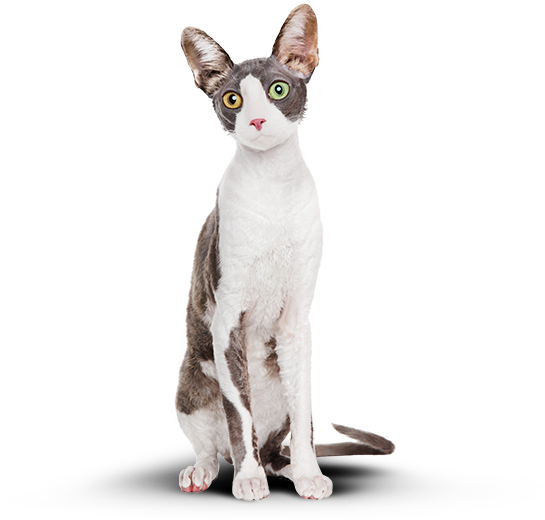
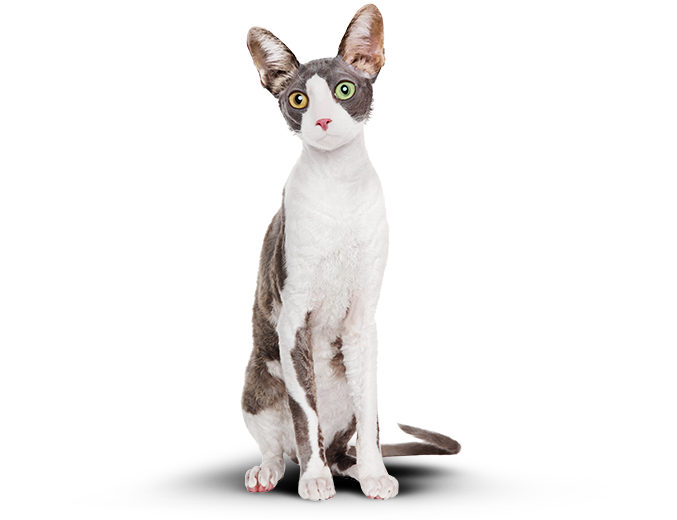
Добавь базовую реализацию слайдера

Changed region(s): [[0.1872, 0.0, 0.7486, 0.9846], [0.5615, 0.4615, 0.5927, 0.5846], [0.4991, 0.5846, 0.5303, 0.6154]]

diff --git a/source/index.html b/source/index.html
@@ -12,7 +12,7 @@
   <title>HTML Academy: Кэт энерджи</title>
 </head>
 
-<body class="page__body page__index js-enabled">
+<body class="page__body page__index">
   <header class="page-header page__container">
     <div class="page-header__wrapper">
       <a class="link page-header__logo-image">
@@ -202,13 +202,13 @@
                 <picture>
                   <source media="(min-width: 768px)" srcset="img/slider/after@1x.png, img/slider/after@2x.png 2x">
                   <img class="slider__image" src="img/slider/after-mobile@1x.png"
-                    srcset="img/slider/after-mobile@2x.png 2x" alt="Поджарый кот" width="251" height="240">
+                    srcset="img/slider/after-mobile@2x.png 2x" alt="Поджарый кот" width="251" height="232">
                 </picture>
               </figure>
             </li>
           </ul>
           <div class="example__control slider__control slider__control--hide" hidden>
-            <button class="slider__button" type="button">
+            <button class="slider__button" id="before-button" type="button">
               Было
             </button>
             <div class="slider__bar">
@@ -218,7 +218,7 @@
                 </span>
               </div>
             </div>
-            <button class="slider__button" type="button">
+            <button class="slider__button" id="after-button" type="button">
               Стало
             </button>
           </div>
@@ -251,7 +251,7 @@
       <iframe aria-labelledby="address"
         src="https://www.google.com/maps/embed?pb=!1m18!1m12!1m3!1d7994.770648107317!2d30.313133954838005!3d59.937241831231795!2m3!1f0!2f0!3f0!3m2!1i1024!2i768!4f13.1!3m3!1m2!1s0x4696310fca145cc1%3A0x42b32648d8238007!2z0JHQvtC70YzRiNCw0Y8g0JrQvtC90Y7RiNC10L3QvdCw0Y8g0YPQuy4sIDE5LzgsINCh0LDQvdC60YIt0J_QtdGC0LXRgNCx0YPRgNCzLCAxOTExODY!5e0!3m2!1sru!2sru!4v1616848881644!5m2!1sru!2sru"
         style="border: 0;
-  width: 100%;" height="362" allowfullscreen="" loading="lazy"></iframe>
+  width: 100%;" height="362" allowfullscreen="" loading="lazy" hidden></iframe>
     </div>
   </aside>
   <footer class="main-footer">
@@ -295,6 +295,7 @@
     </div>
   </footer>
   <script src="js/app.js"></script>
+  <script src="js/slider.js"></script>
 </body>
 
 </html>

diff --git a/source/js/slider.js b/source/js/slider.js
@@ -1,0 +1,51 @@
+document.querySelector('.slider__control').classList.remove('slider__control--hide');
+
+const beforeBtn = document.getElementById('before-button');
+const afterBtn = document.getElementById('after-button');
+const beforeSlide = document.querySelector('.slider__item--before');
+const afterSlide = document.querySelector('.slider__item--after');
+const sliderControl = document.querySelector('.slider__control');
+const sliderBar = document.querySelector('.slider__bar');
+const sliderThumb = document.querySelector('.slider__thumb');
+beforeBtn.addEventListener('click', function () {
+  if (window.innerWidth < 768) {
+    afterSlide.classList.remove('slider__item--current');
+    beforeSlide.classList.add('slider__item--current');
+    sliderThumb.style.marginLeft = '0';
+  }
+  else {
+    sliderThumb.style.left = 0;
+    changeSlide(0);
+  }
+});
+afterBtn.addEventListener('click', function () {
+  if (window.innerWidth < 768) {
+    beforeSlide.classList.remove('slider__item--current');
+    afterSlide.classList.add('slider__item--current');
+    sliderThumb.style.marginLeft = 'auto';
+  } else {
+    sliderThumb.style.left = '100%';
+    changeSlide(100);
+  }
+});
+
+sliderControl.addEventListener('mousedown', getCoords);
+
+function getCoords(e) {
+  let coords;
+  let sliderBarStart = sliderBar.offsetLeft;
+  sliderBarWidth = sliderBar.offsetWidth;
+  let sliderBarEnd = sliderBarWidth + sliderBarStart;
+  if (e.pageX >= sliderBarStart && e.pageX <= sliderBarEnd) {
+    coords = Math.round((e.pageX - sliderBarStart) * 100 / sliderBarWidth);
+    moveThumb(coords);
+  }
+}
+function moveThumb(percent){
+  sliderThumb.style.left = percent + '%';
+  changeSlide(percent);
+}
+function changeSlide(percent) {
+  beforeSlide.style.width = 100 - percent + "%"
+  afterSlide.style.width = percent + "%"
+}

diff --git a/source/sass/blocks/slider.scss b/source/sass/blocks/slider.scss
@@ -43,7 +43,8 @@
   }
 
   &--before {
-    width: 338px;
+    width: 50%;
+    // width: 338px;
     z-index: 1;
 
     img {
@@ -51,25 +52,35 @@
     }
 
     @media (min-width: 1280px) {
-      width: 365px;
+      // width: 365px;
     }
   }
 
   &--after {
-    width: 354px;
+    width: 50%;
+    // width: 339px;
     right: 0;
 
     @media (min-width: 1280px) {
-      width: 312px;
+      // width: 312px;
     }
 
     img {
-      object-fit: cover;
-      width: 325px;
-      height: 100%;
-      position: absolute;
-      top: 0;
-      right: 150px;
+      max-width: none;
+      // width: 100%;
+      // object-fit: cover;
+
+      @media (min-width: 768px) {
+        // object-fit: cover;
+        // width: 325px;
+        height: 100%;
+        position: absolute;
+        top: 0;
+        right: -25px;
+        // right: 150px;
+        // right: 50%;
+      }
+
 
       @media (min-width: 1280px) {
         right: 159px;
@@ -108,14 +119,13 @@
 .slider__control {
   width: 196px;
   margin: 0 auto;
-  // padding: 0 13px;
   box-sizing: border-box;
   display: flex;
   align-items: center;
   justify-content: space-between;
 
   &--hide {
-    // display: none;
+    display: none;
   }
 
   @media (min-width: 768px) {

diff --git a/source/js/app.js b/source/js/app.js
@@ -1,10 +1,13 @@
-let menuToggler = document.querySelector('.main-nav__toggle');
-let mainMenu = document.querySelector('.main-nav__list');
+document.body.classList.add('js-enabled');
+document.querySelector('.contacts__map iframe').removeAttribute('hidden');
+const menuToggler = document.querySelector('.main-nav__toggle');
+const mainMenu = document.querySelector('.main-nav__list');
 menuToggler.classList.remove('main-nav__toggle--hidden');
 mainMenu.classList.add('main-nav__list--close');
 
-menuToggler.addEventListener('click', menuToggle);
+menuToggler.addEventListener('click', showHideMenu);
 
-function menuToggle() {
+function showHideMenu() {
+  menuToggler.classList.toggle('main-nav__toggle--close')
     mainMenu.classList.toggle('main-nav__list--close');
 }

diff --git a/source/sass/blocks/main-nav.scss b/source/sass/blocks/main-nav.scss
@@ -23,6 +23,10 @@
   display: initial;
   position: relative;
 
+  &:focus {
+    outline: none;
+  }
+
   &::before,
   &::after {
     content: "";
@@ -45,26 +49,13 @@
   }
 
   &--close {
-    &::before,
-    &::after {
-      content: "";
-      width: 100%;
-      height: 2px;
-      --bg-basic-l: 0%;
-      --bg-basic: hsl(var(--bg-basic-h) var(--bg-basic-s) var(--bg-basic-l) / var(--bg-basic-o));
-      background-color: var(--bg-basic);
-      position: absolute;
-      left: 0;
-      top: 50%;
-    }
-
     &::before {
-      transform: rotateZ(45deg);
+      transform: translateY(7px) rotateZ(45deg);
       box-shadow: none;
     }
 
     &::after {
-      transform: rotateZ(-45deg);
+      transform: translateY(-7px) rotateZ(-45deg);
     }
   }
 

diff --git a/gulpfile.js b/gulpfile.js
@@ -67,6 +67,8 @@ const watcher = () => {
   gulp.watch("source/sass/**/*.scss", gulp.series("styles"));
   gulp.watch("source/img/icons/**/*.svg", gulp.series("svgstack"));
   gulp.watch("source/*.html").on("change", sync.reload);
+  gulp.watch("source/js/*.js").on("change", sync.reload);
+
 }
 
 exports.default = gulp.series(
